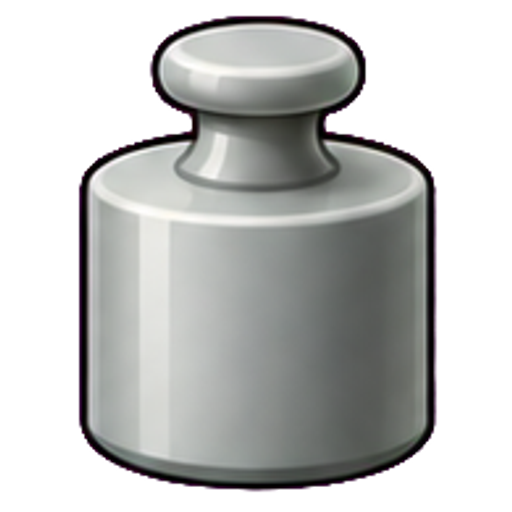
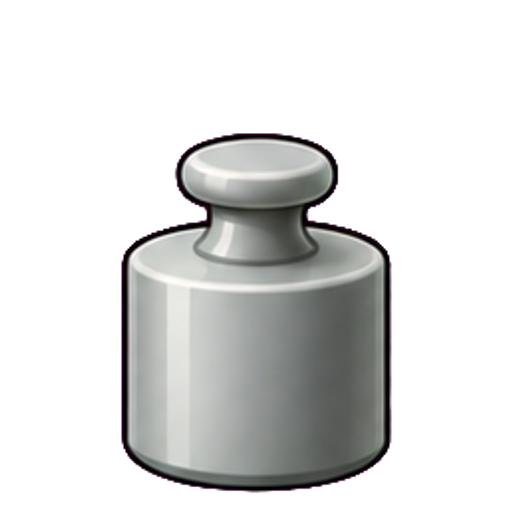
cut-sheets: sameScale keeps the weights' relative sizes

diff --git a/tools/art-import/cut-sheets.js b/tools/art-import/cut-sheets.js
@@ -379,6 +379,7 @@ const SHEETS = {
     file: 'sheet_workshop_balance.png', dir: 'workshop/ai',
     // The right-hand tilts that came back from ChatGPT were not distinct enough (slight 12.5 vs medium 17.7 degrees), so the
     // right sprites are mirrors of the left ones (the scale is symmetric): left tilts measure 7.6 / 17.5 / 29.7 degrees.
+    sameScale: ['weight_small_weight', 'weight_medium_weight', 'weight_large_weight'],
     mirror: { scale_light_right: 'scale_light_left', scale_heavy_right: 'scale_heavy_left', scale_medium_right: 'scale_medium_left' },
     names: ['scale_light_left', 'scale_heavy_left', 'scale_light_right', 'scale_heavy_right', 'scale_medium_left', 'scale_medium_right',
       'scale_level', 'weight_small_weight', 'weight_medium_weight', 'weight_large_weight'],
@@ -520,10 +521,14 @@ function readingOrder(boxes) {
   fs.mkdirSync(outDir, { recursive: true });
   const resDir = spec.resDir && path.join(ROOT, 'EvasLearningWorld/Assets/Eva/Resources/Art', spec.resDir);
   if (install && resDir) fs.mkdirSync(resDir, { recursive: true });
+  // sameScale: names whose RELATIVE size matters (small/medium/large weights): they share one canvas side instead of each
+  // being scaled up to fill its own sprite.
+  const sharedSide = spec.sameScale ? Math.max(...spec.sameScale.map((n) => { const k = found[spec.names.indexOf(n)]; return k ? Math.max(k.x1 - k.x0 + 1, k.y1 - k.y0 + 1) : 0; })) : 0;
   for (let i = 0; i < Math.min(found.length, spec.names.length); i++) {
     const b = found[i];
     const w = b.x1 - b.x0 + 1, h = b.y1 - b.y0 + 1;
-    const side = Math.round(Math.max(w, h) * 1.08);
+    const own = Math.round(Math.max(w, h) * 1.08);
+    const side = spec.sameScale && spec.sameScale.includes(spec.names[i]) ? Math.round(sharedSide * 1.08) : own;
     const bottom = Math.round(side * BOTTOM_MARGIN); // content sits on the bottom edge so the feet are at a known height
     const crop = await sharp(img.data, { raw: { width: img.w, height: img.h, channels: 4 } }).extract({ left: b.x0, top: b.y0, width: w, height: h }).png().toBuffer();
     const sprite = await sharp({ create: { width: side, height: side, channels: 4, background: { r: 0, g: 0, b: 0, alpha: 0 } } })
